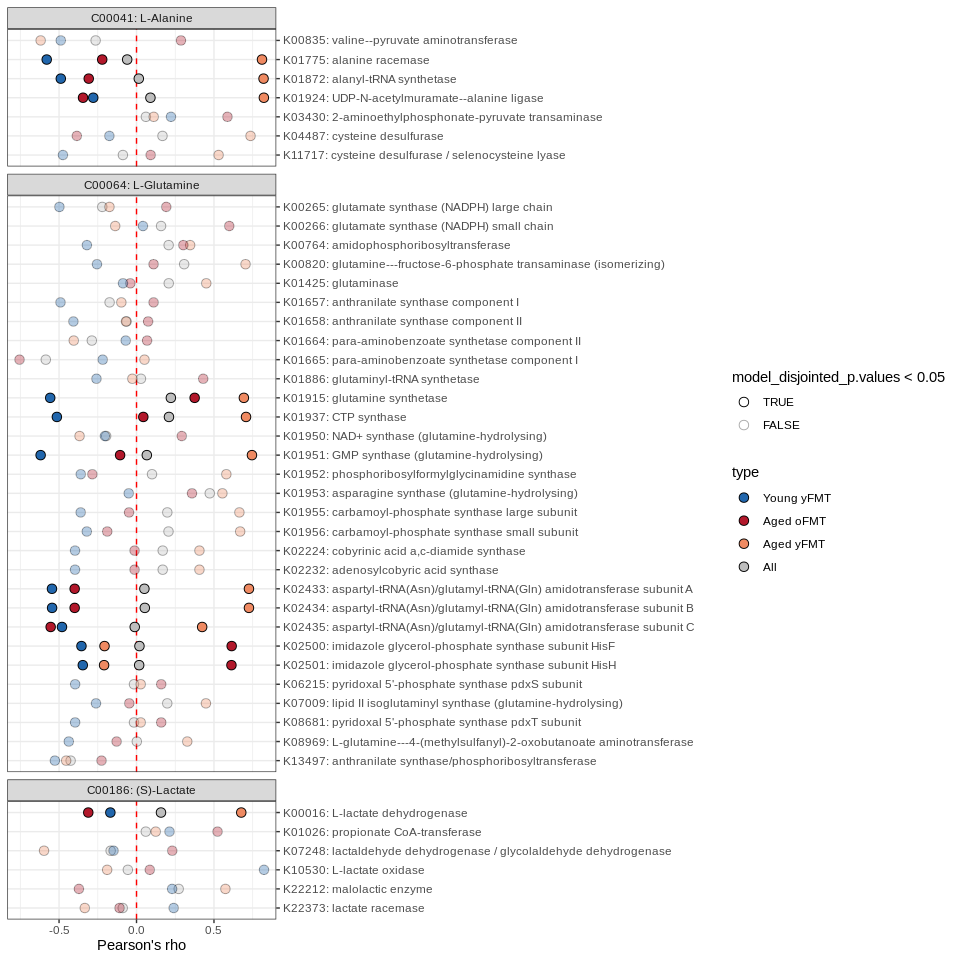
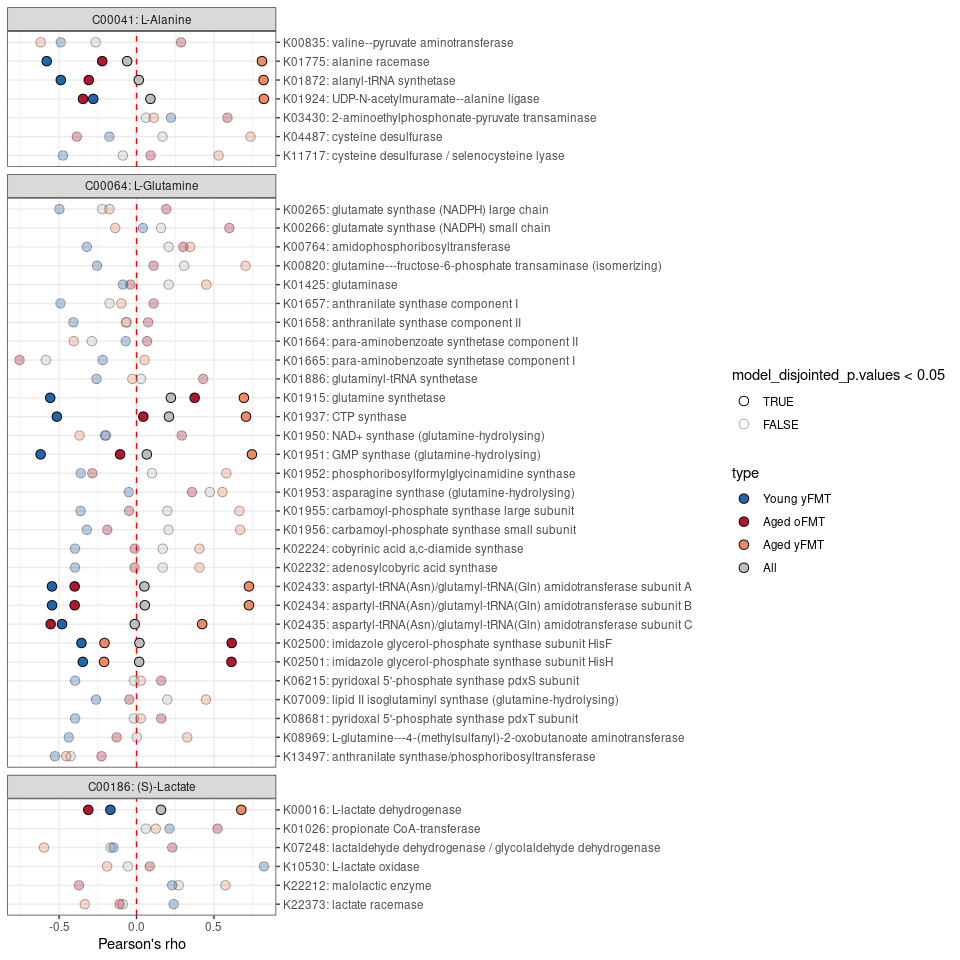
Edited readme to reflect changes in nomenclature

diff --git a/README.md b/README.md
@@ -128,6 +128,7 @@ a necessary input file for the main `anansi` workflow.
 web <- weaveWebFromTables(tableY = t1, tableX = t2, dictionary = anansi_dic)
 ```
 
+    ## [1] "Operating in interaction mode"
     ## [1] "3 were matched between table 1 and the columns of the adjacency matrix"
     ## [1] "50 were matched between table 2 and the rows of the adjacency matrix"
 
@@ -165,7 +166,9 @@ legible. You can also use the `plot()` method on an `anansiYarn` object
 to gain some insights in the state of your p, q, r and r^2 parameters.
 
 ``` r
-anansiLong <- spinToLong(anansi_output = anansi_out)  
+anansiLong <- spinToLong(anansi_output = anansi_out, translate = T, 
+                         Y_translation = anansi::cpd_translation, 
+                         X_translation = anansi::KO_translation)  
 #Now it's ready to be plugged into ggplot2, though let's clean up a bit more. 
 
 #Only consider interactions where the entire model fits well enough. 
@@ -180,7 +183,7 @@ recreate part of the results from the FMT Aging study.
 ``` r
 ggplot(data = anansiLong, 
        aes(x      = r.values, 
-           y      = Functions, 
+           y      = feature_X, 
            fill   = type, 
            alpha  = model_disjointed_p.values < 0.05)) + 
   
@@ -191,7 +194,7 @@ ggplot(data = anansiLong,
   geom_point(shape = 21, size = 3) + 
   
   #facet per compound
-  ggforce::facet_col(~Compounds, space = "free", scales = "free_y") + 
+  ggforce::facet_col(~feature_Y, space = "free", scales = "free_y") + 
   
   #fix the scales, labels, theme and other layout
   scale_y_discrete(limits = rev, position = "right") +
